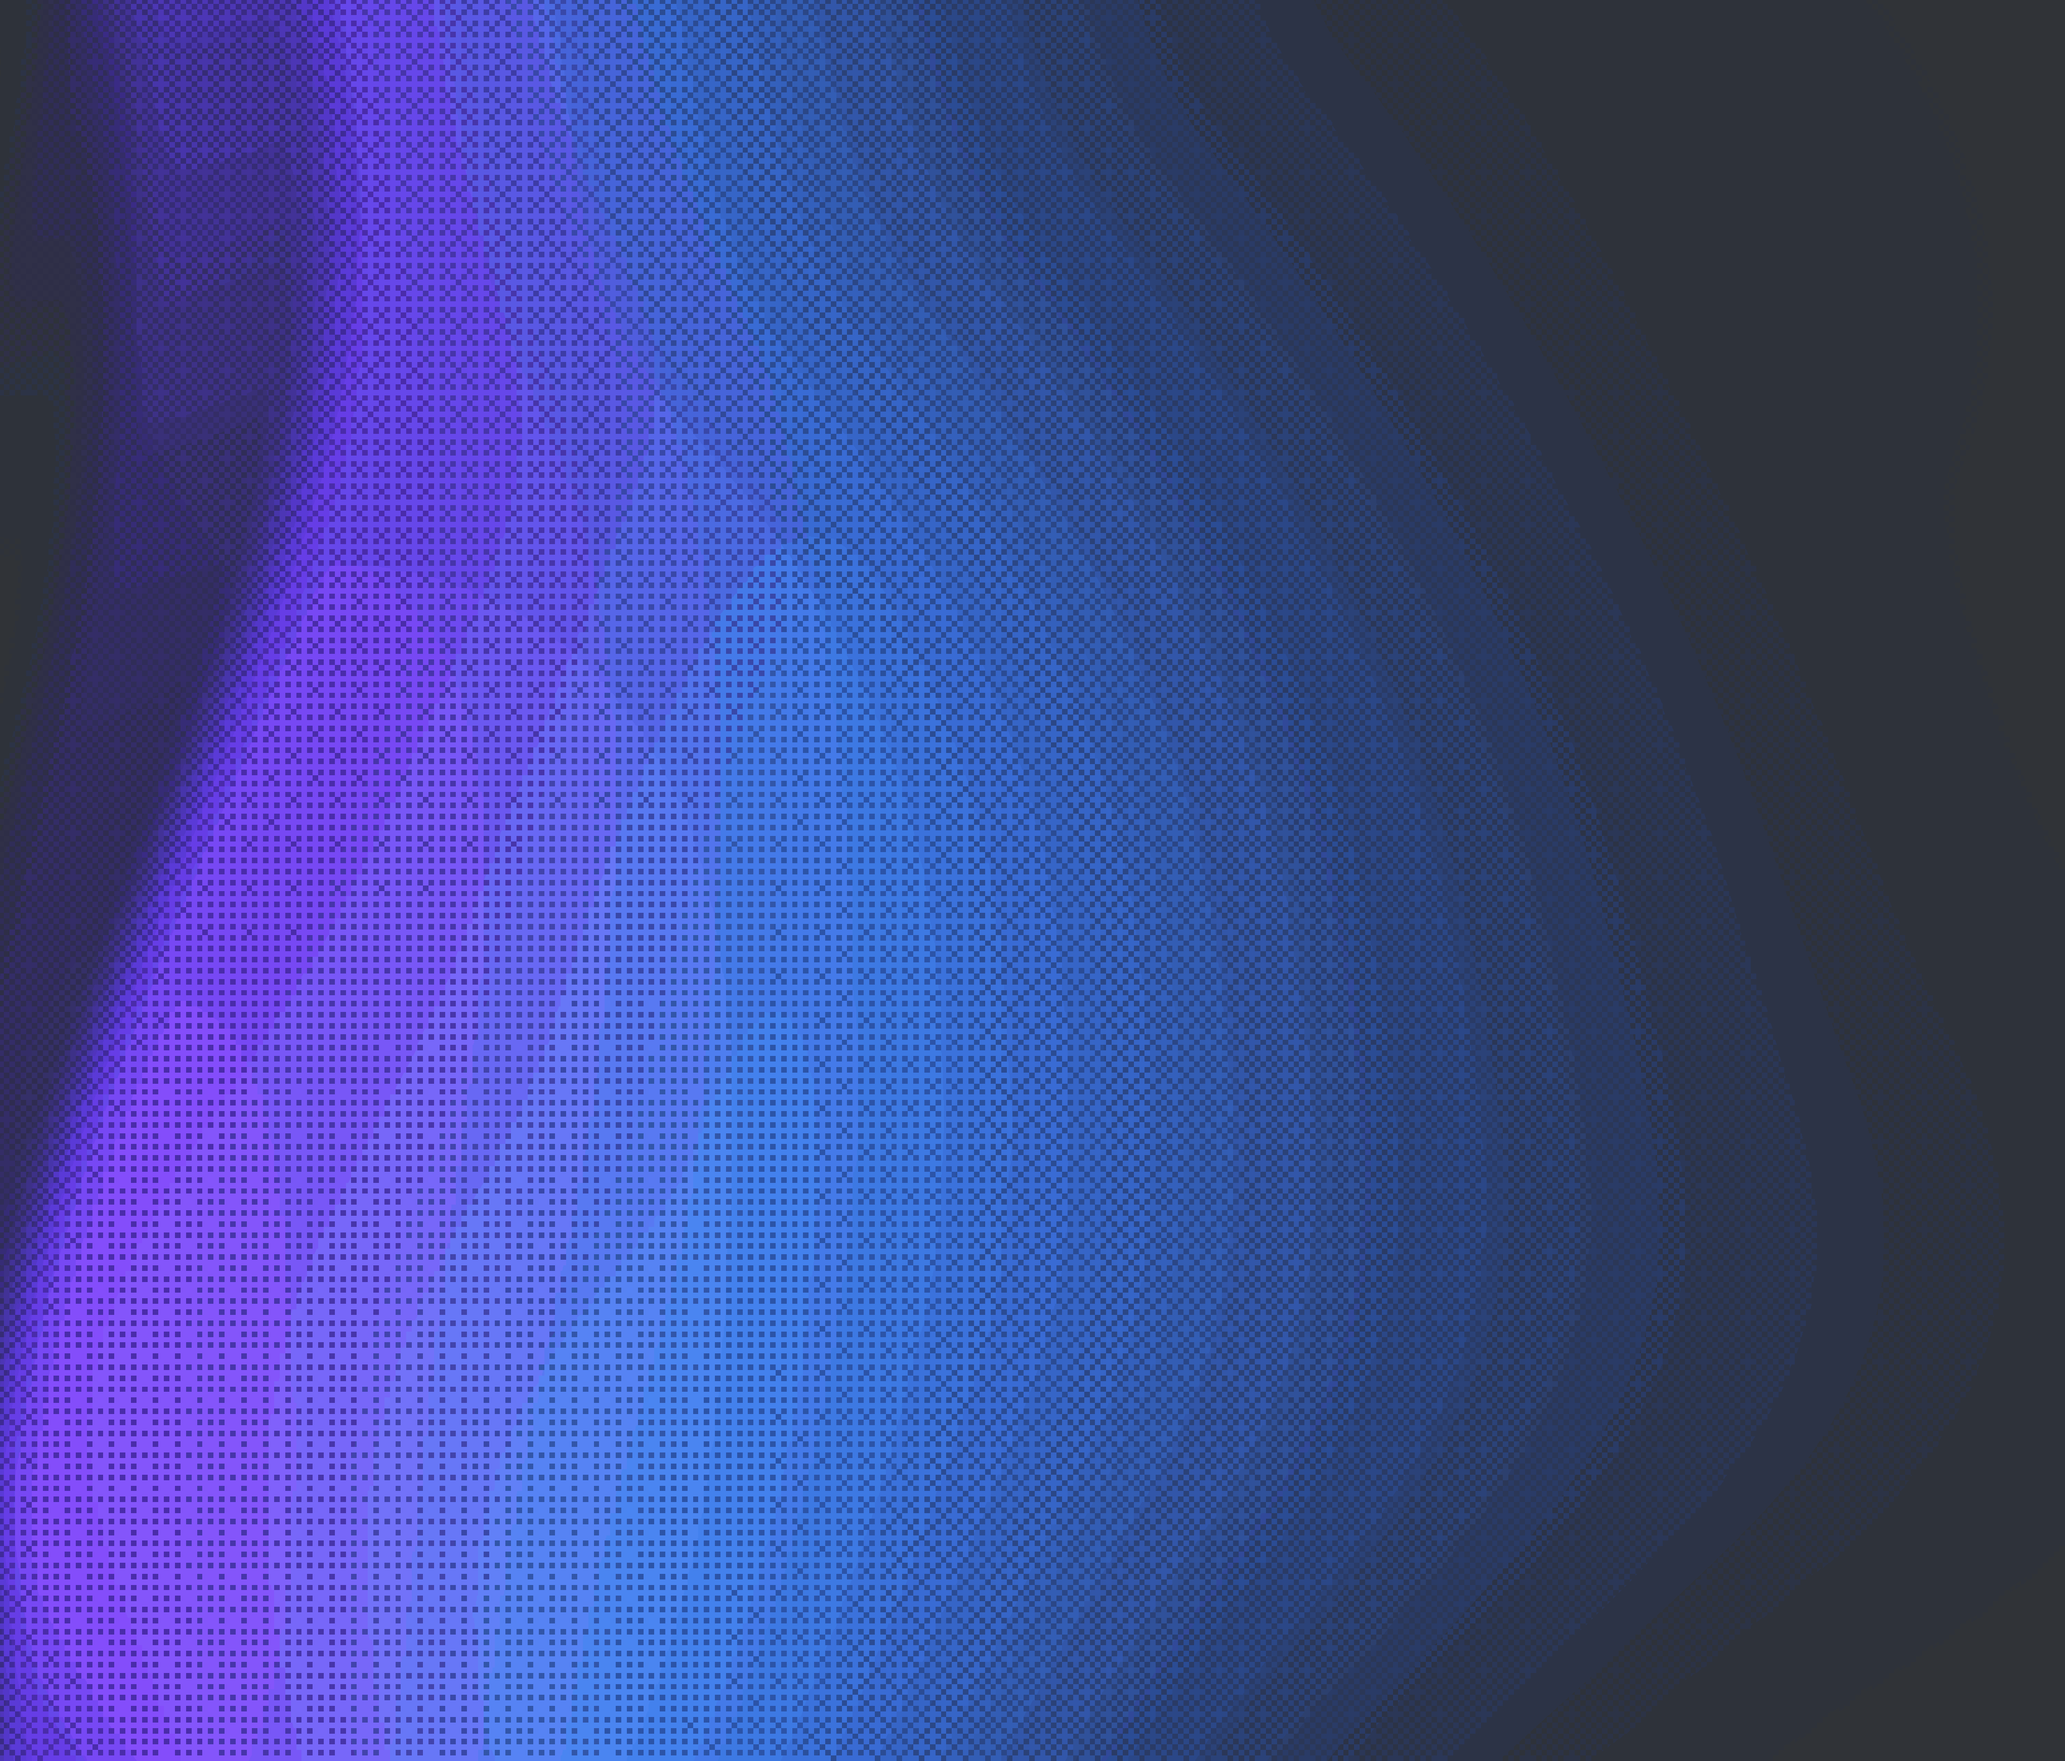
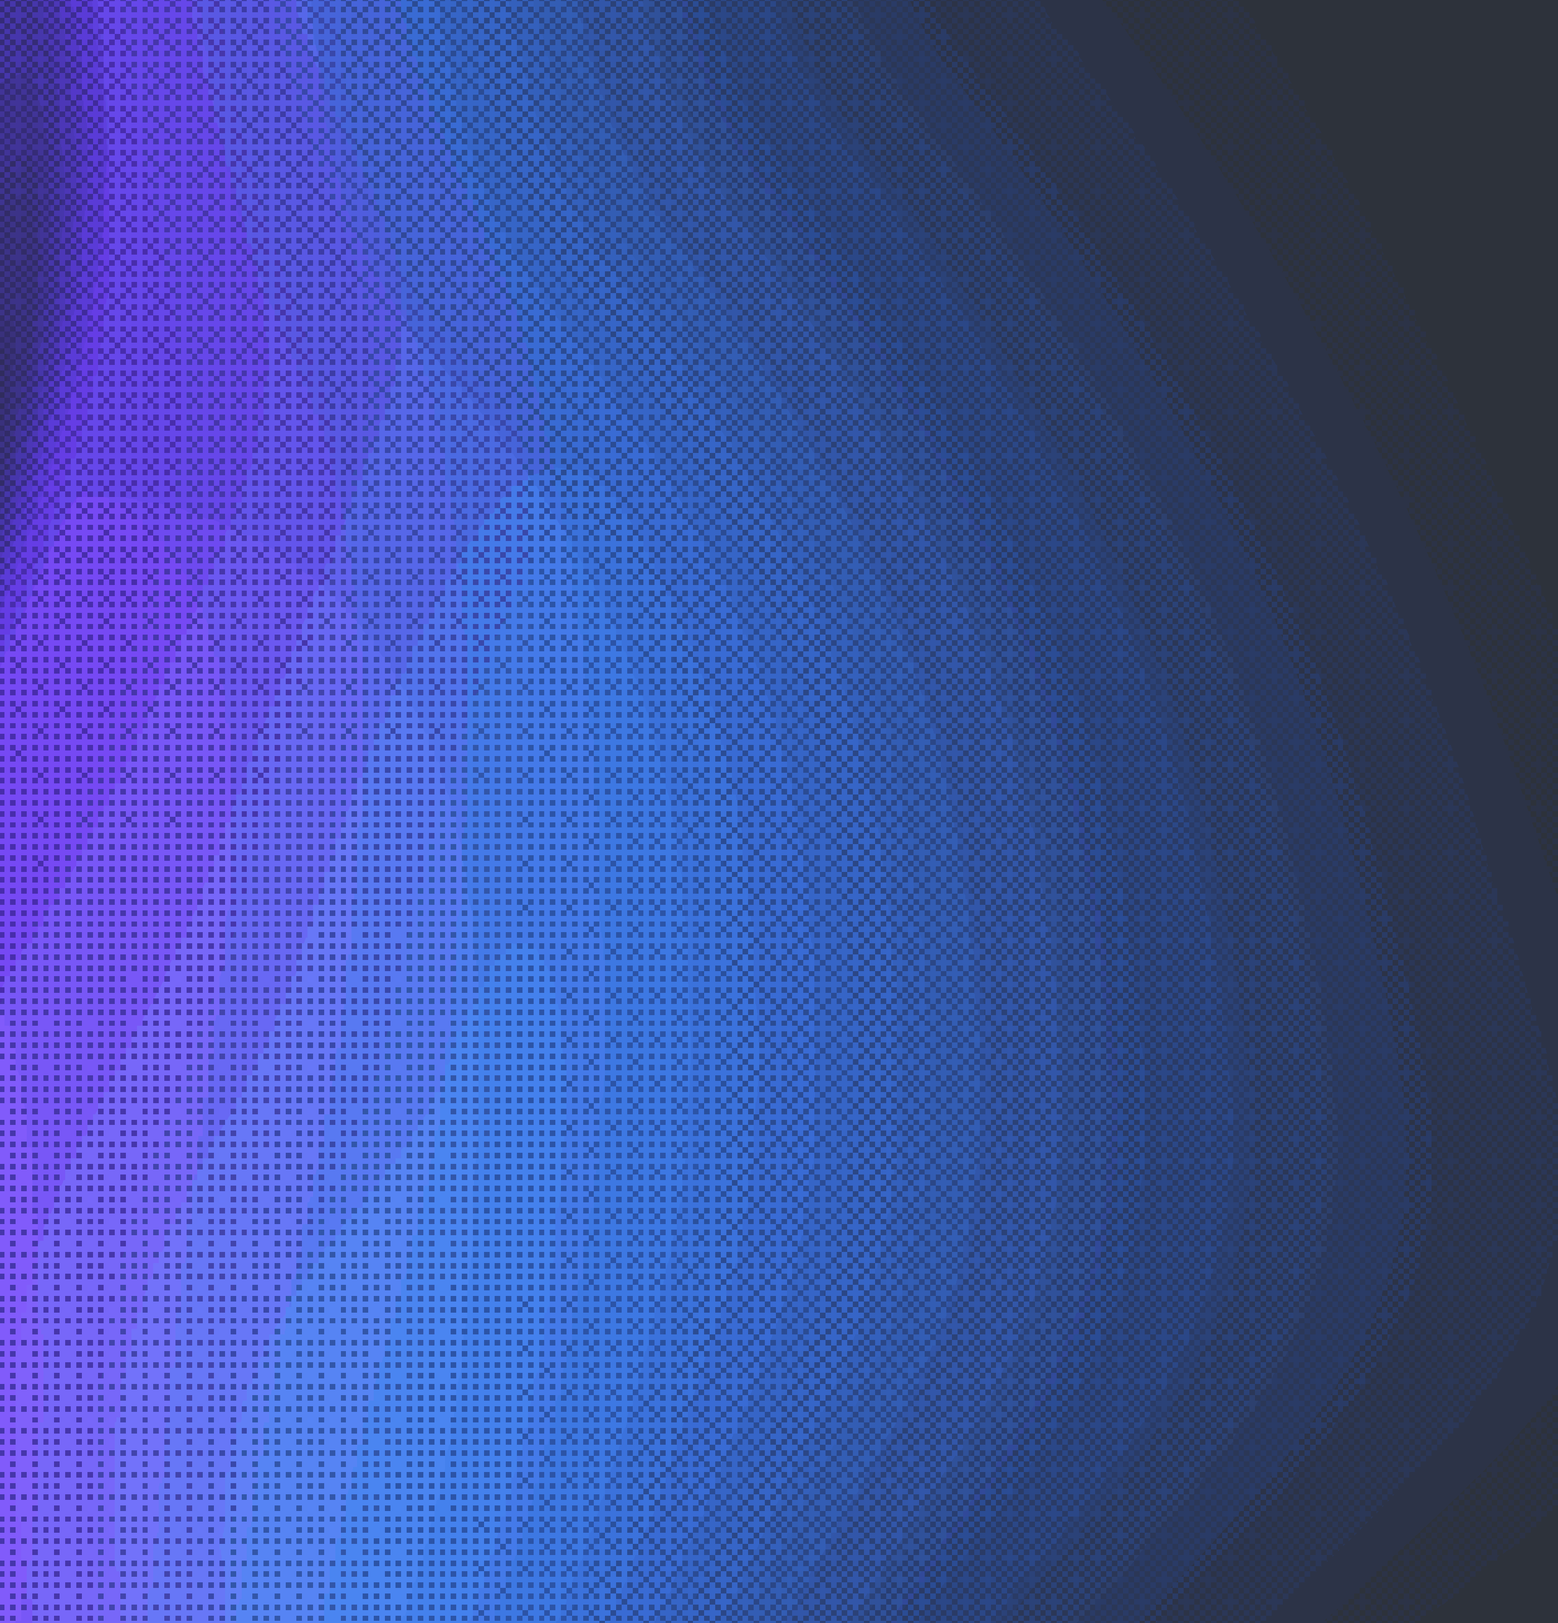
fix(web): Westworld thread texture shows the frame's window, dither on both edges
The layer in Figma 434:14898 is 1252 wide centred on a 945 card, so the
card sees x 12-88% of the image: bright violet on the left, faint blue-grey
on the right. `cover` on the full image showed its dark outer margins
instead. Bake that window into the asset so the same edges land at any card
size, and ease the right scrim (opaque to 150px, 55% at the edge) so the
right-hand dither reads as drawn.

diff --git a/apps/web/src/theme.custom.palettes.css b/apps/web/src/theme.custom.palettes.css
@@ -178,8 +178,11 @@
    sits on the right. The scrim is a horizontal gradient here: 10% at the
    left edge, opaque from 190px, opaque to 120px from the right, 70% at
    the right edge — the ramps stand in for the blur. The asset is pre-baked
-   with the rotation, so one `center / cover` layer places it at any card
-   size.
+   with the rotation AND the frame's crop: the 1252-wide layer sits centred
+   on a 945 card, so the card sees x 12–88% of the image, which is where the
+   texture's bright violet (left) and faint blue-grey (right) live; baking
+   that window in means one `center / cover` layer lands the same edges at
+   any card size instead of the texture's dark outer margins.
 
    ::after is the new-agent draft (Figma 416:8420, layer 421:12528,
    "doloresbluedither4"): the blue portrait at full strength under a
@@ -199,8 +202,8 @@
 
    Both assets are Figma exports quantized to 256 colours (octree):
    westworld-hero.png 171 KB against 1.3 MB (no channel more than 14 levels
-   off), westworld-thread.png the rotated texture, 170 KB against 1.8 MB (no
-   channel more than 11 levels off). */
+   off), westworld-thread.png the rotated, frame-cropped texture (no channel
+   more than 11 levels off). */
 :root[data-fork="noahhendrickson-t3code"].dark[data-fork-theme="cool-dark"]
   [data-chat-workspace-drop-target="true"]::before {
   content: "";
@@ -213,8 +216,8 @@
       to right,
       rgb(38 39 44 / 10%) 0,
       #26272c 190px,
-      #26272c calc(100% - 120px),
-      rgb(38 39 44 / 70%) 100%
+      #26272c calc(100% - 150px),
+      rgb(38 39 44 / 55%) 100%
     ),
     url("./custom/assets/westworld-thread.png") center / cover no-repeat,
     #19191b;

diff --git a/apps/web/src/__fork_guards__/forkCoolDarkTheme.test.ts b/apps/web/src/__fork_guards__/forkCoolDarkTheme.test.ts
@@ -371,7 +371,7 @@ describe("fork guard: fork-cool-dark-theme", () => {
       'url("./custom/assets/westworld-thread.png") center / cover no-repeat',
     );
     expect(art?.body).toMatch(
-      /rgb\(38 39 44 \/ 10%\) 0,\s*#26272c 190px,\s*#26272c calc\(100% - 120px\),\s*rgb\(38 39 44 \/ 70%\) 100%/u,
+      /rgb\(38 39 44 \/ 10%\) 0,\s*#26272c 190px,\s*#26272c calc\(100% - 150px\),\s*rgb\(38 39 44 \/ 55%\) 100%/u,
     );
     expect(art?.body).toMatch(/,\s*#19191b;/u);
     expect(art?.body).toContain("z-index: -1");
